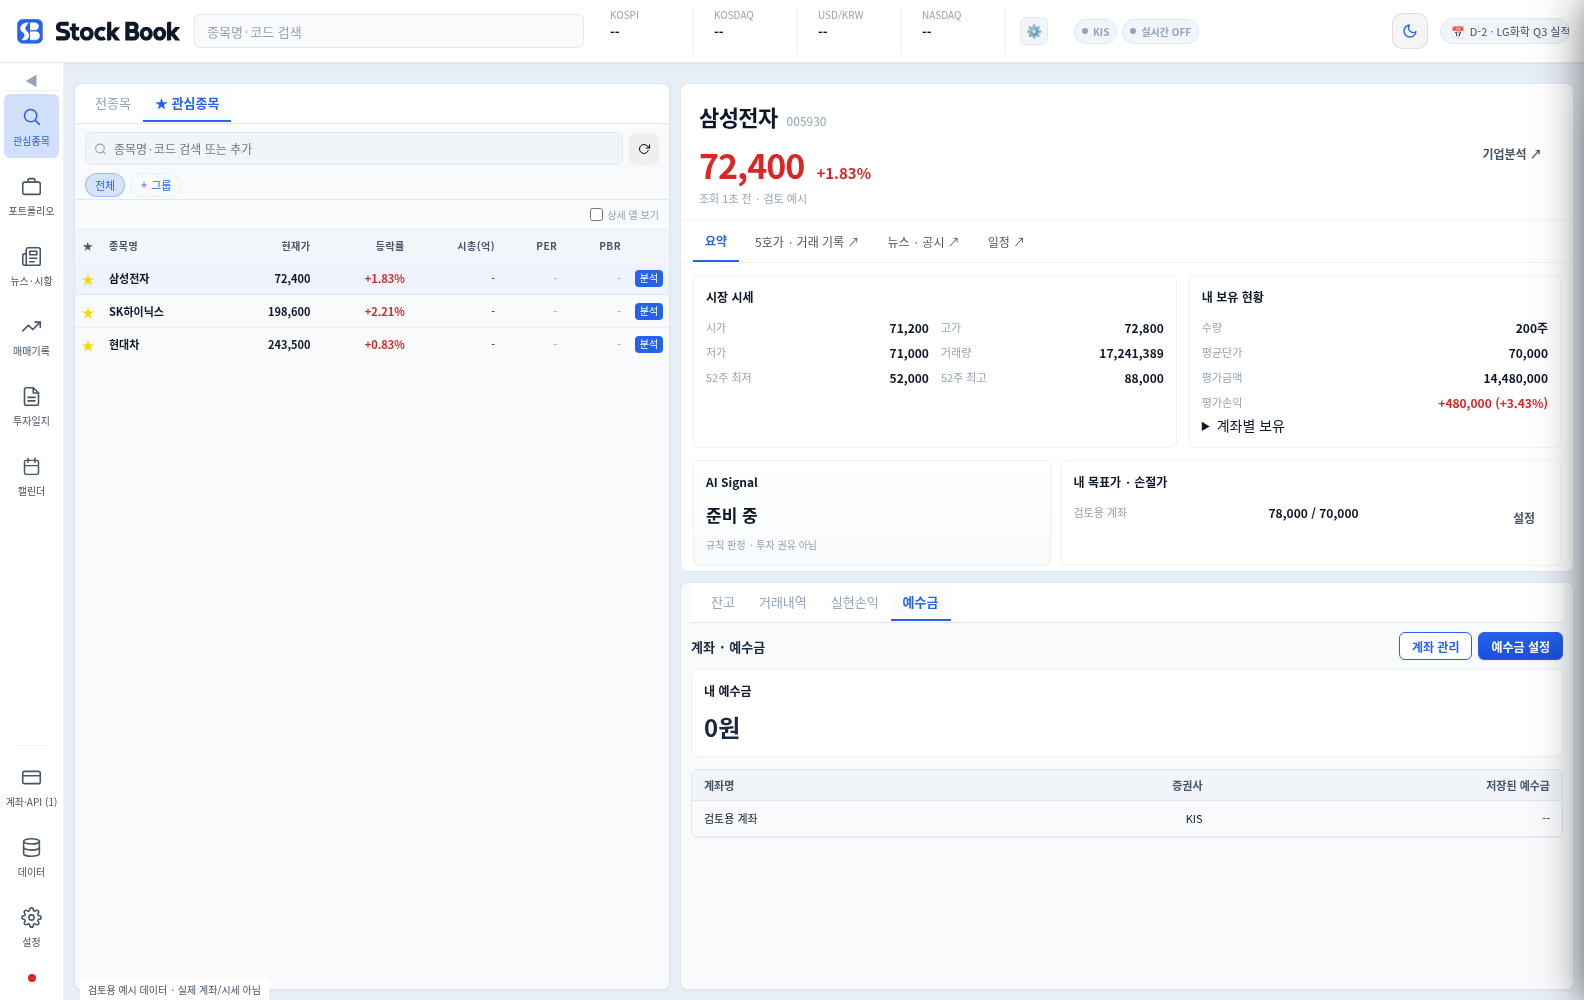
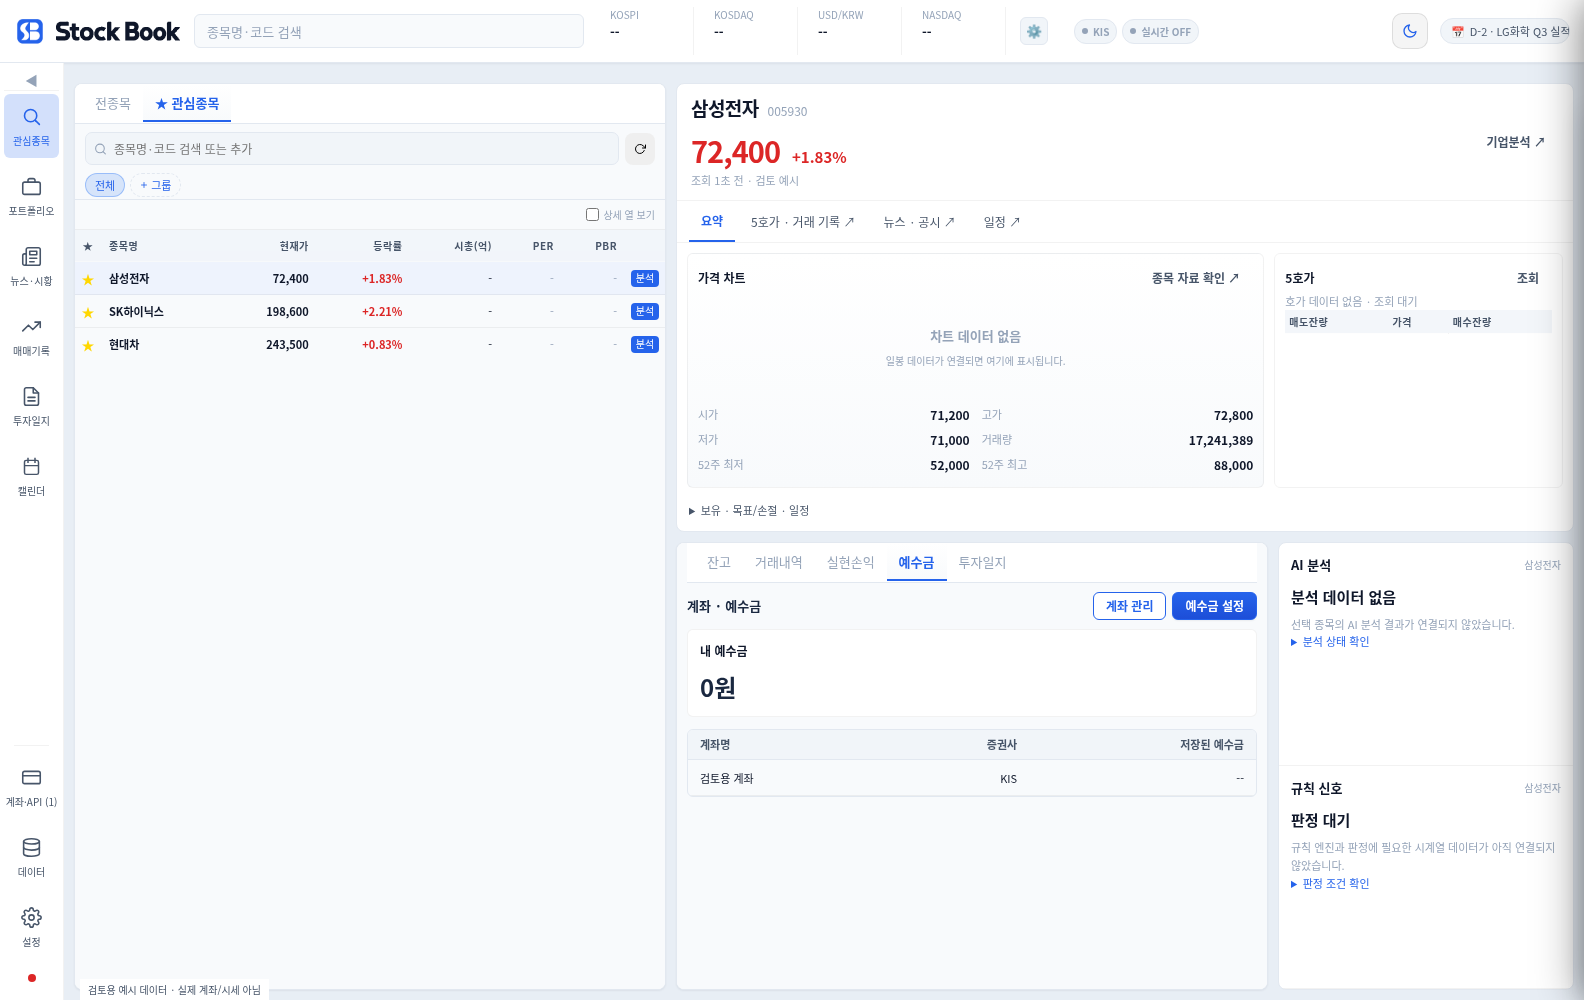
fix(ui): 일지와 AI 분석 및 규칙 신호 동시 표시

diff --git a/index.html b/index.html
@@ -3334,6 +3334,41 @@
   .sb-journal-section > summary { padding: 10px; color: var(--sb-accent); font-weight: 700; font-size: 12px; cursor: pointer; border-bottom: 1px solid var(--sb-border-weak); }
   .sb-journal-section-body { padding: 10px; }
   .sb-journal-section-body > .form-group { margin-bottom: 8px; }
+
+  .mdi-dock.sb-desktop-home { grid-template-columns: minmax(0,2fr) minmax(0,2fr) minmax(160px,1fr); grid-template-rows: 0 minmax(250px,1fr) minmax(260px,1fr); }
+  .mdi-dock.sb-desktop-home > .dock-ctx { grid-column: 2 / 4; }
+  .mdi-dock.sb-desktop-home > :is(#mdi-panel-portfolio,#mdi-panel-journal) { grid-column: 2; }
+  .sb-analysis { display: none; }
+  .mdi-dock.sb-desktop-home > .sb-analysis { display: grid; grid-template-rows: repeat(2,minmax(0,1fr)); grid-column: 3; grid-row: 3; min-width: 0; min-height: 0; overflow: auto; border: 1px solid var(--sb-border); border-radius: var(--sb-radius-3); background: var(--sb-panel); }
+  .sb-analysis-section { padding: 12px; min-height: 0; overflow: auto; border-bottom: 1px solid var(--sb-border-weak); }
+  .sb-analysis-section h3 { font-size: 13px; margin: 0; }
+  .sb-analysis-section > strong { display: block; font-size: 15px; margin: 12px 0 8px; }
+  .sb-analysis-section p { font-size: 11px; color: var(--sb-text-3); line-height: 1.7; }
+  .sb-analysis-section summary { font-size: 11px; color: var(--sb-accent); cursor: pointer; }
+  .sb-analysis-section small { font-size: 10px; color: var(--sb-text-3); }
+  .sb-analysis-stock { font-size: 10px; color: var(--sb-text-3); overflow-wrap: anywhere; }
+  .sb-region-title { display: flex; flex-wrap: wrap; align-items: center; justify-content: space-between; gap: 6px; font-size: 12px; }
+  .sb-market-stage { display: grid; grid-template-columns: minmax(0,2fr) minmax(160px,1fr); gap: 10px; padding: 10px; }
+  .sb-chart-region,.sb-order-region { border: 1px solid var(--sb-border-weak); border-radius: var(--sb-radius-2); padding: 10px; min-width: 0; }
+  .sb-chart-region { background: linear-gradient(var(--sb-panel),var(--sb-bg)); }
+  .sb-data-empty { min-height: 110px; display: flex; flex-direction: column; align-items: center; justify-content: center; gap: 8px; color: var(--sb-text-3); }
+  .sb-data-empty strong { font-size: 13px; }.sb-data-empty span { font-size: 10px; text-align: center; }
+  .sb-hoga-table { width: 100%; font-variant-numeric: tabular-nums; white-space: nowrap; }
+  .sb-hoga-table th,.sb-hoga-table td { padding: 4px; font-size: 10px; }
+  .sb-hoga-table .ask { color: var(--sb-down); background: var(--sb-down-bg); }
+  .sb-hoga-table .bid { color: var(--sb-up); background: var(--sb-up-bg); }
+  .sb-context-details { padding: 4px 12px 10px; font-size: 11px; color: var(--sb-text-2); }
+  .sb-context-details > summary { cursor: pointer; }
+  .sb-detail-head { padding: 10px 14px; }.dock-ctx__price { font-size: 29px; }.dock-ctx__name { font-size: 19px; }
+  .mdi-dock.sb-desktop-home .pf-stats { grid-template-columns: repeat(2,minmax(0,1fr)); }
+  .mdi-dock.sb-desktop-home #mdi-panel-journal .form-grid { grid-template-columns: repeat(2,minmax(0,1fr)) !important; }
+  @media(max-width:760px) {
+    .mdi-dock.sb-desktop-home { grid-template-columns: minmax(0,1fr); grid-template-rows: 0 280px 360px 400px 350px; }
+    .mdi-dock.sb-desktop-home > .dock-ctx { grid-column: 1; grid-row: 3; }
+    .mdi-dock.sb-desktop-home > :is(#mdi-panel-portfolio,#mdi-panel-journal) { grid-column: 1; grid-row: 4; }
+    .mdi-dock.sb-desktop-home > .sb-analysis { grid-column: 1; grid-row: 5; }
+  }
+
 </style>
 </head>
 <body>
@@ -4317,16 +4352,16 @@
         <div class="sb-detail-tabs" aria-label="선택 종목 메뉴">
           <button type="button" class="active">요약</button><button type="button" onclick="dockCtxAction('hoga')">5호가 · 거래 기록 ↗</button><button type="button" onclick="dockCtxAction('news')">뉴스 · 공시 ↗</button><button type="button" onclick="dockCtxAction('cal')">일정 ↗</button>
         </div>
-        <div class="sb-detail-content">
-          <section class="sb-detail-card"><h3>시장 시세</h3><div class="dock-ctx__rows dock-ctx__quote-grid" id="dockCtxQuote"></div></section>
-          <section class="sb-detail-card"><h3>내 보유 현황</h3><div class="dock-ctx__rows" id="dockCtxHold"></div></section>
+        <div class="sb-market-stage">
+          <section class="sb-chart-region" aria-label="선택 종목 차트"><div class="sb-region-title"><strong>가격 차트</strong><button type="button" class="sb-btn sb-btn--ghost sb-btn--sm" onclick="dockCtxAction('chart')">종목 자료 확인 ↗</button></div><div class="sb-data-empty"><strong>차트 데이터 없음</strong><span>일봉 데이터가 연결되면 여기에 표시됩니다.</span></div><div class="dock-ctx__rows dock-ctx__quote-grid" id="dockCtxQuote"></div></section>
+          <section class="sb-order-region" aria-label="선택 종목 5호가"><div class="sb-region-title"><strong>5호가</strong><button type="button" class="sb-btn sb-btn--ghost sb-btn--sm" id="sbHogaRefresh" onclick="sbDesktopHoga()">조회</button></div><div id="sbHogaStatus" class="dock-ctx__none" role="status">호가 데이터 없음 · 조회 대기</div><table class="sb-hoga-table"><thead><tr><th>매도잔량</th><th>가격</th><th>매수잔량</th></tr></thead><tbody id="sbHogaRows"></tbody></table></section>
         </div>
-        <div class="sb-detail-bottom">
-          <section class="sb-detail-card sb-signal"><h3>AI Signal</h3><strong>준비 중</strong><small>규칙 판정 · 투자 권유 아님</small></section>
-          <section class="sb-detail-card"><h3>내 목표가 · 손절가</h3><div class="dock-ctx__rows" id="sbDesktopTargets"></div></section>
-        </div>
-        <section class="sb-detail-card" style="margin:0 12px 12px"><h3>다가오는 종목 일정</h3><div class="dock-ctx__rows" id="dockCtxEvents"></div></section>
+        <details class="sb-context-details"><summary>보유 · 목표/손절 · 일정</summary><div class="sb-detail-content"><div class="dock-ctx__rows" id="dockCtxHold"></div><div class="dock-ctx__rows" id="sbDesktopTargets"></div><div class="dock-ctx__rows" id="dockCtxEvents"></div></div></details>
       </div>
+    </aside>
+    <aside id="sbAnalysis" class="sb-analysis" aria-label="AI 분석과 규칙 신호">
+      <section class="sb-analysis-section"><div class="sb-region-title"><h3>AI 분석</h3><span class="sb-analysis-stock">종목 선택</span></div><strong>분석 데이터 없음</strong><p>선택 종목의 AI 분석 결과가 연결되지 않았습니다.</p><details id="sbAiCheck"><summary>분석 상태 확인</summary><p>분석 결과: 없음<br>생성 시각: --<br>출처: 연결되지 않음</p><button type="button" class="sb-btn sb-btn--sm" onclick="dockCtxAction('chart')">참고 기업자료 확인 ↗</button></details></section>
+      <section class="sb-analysis-section"><div class="sb-region-title"><h3>규칙 신호</h3><span class="sb-analysis-stock">종목 선택</span></div><strong>판정 대기</strong><p>규칙 엔진과 판정에 필요한 시계열 데이터가 아직 연결되지 않았습니다.</p><details id="sbSignalCheck"><summary>판정 조건 확인</summary><p>시계열 데이터: 없음<br>규칙 엔진: 연결 대기<br>마지막 판정: --</p><small>규칙 판정 · 투자 권유 아님</small></details></section>
     </aside>
 </div><!-- /mdi-workspace -->
 </div><!-- /mdi-content -->
@@ -12012,6 +12047,41 @@ function renderWatchlist() {
 }
 
 // ── 관심종목 종합: 선택 종목 문맥 패널 ──────────────────────────────────
+let sbHogaSelection = null;
+let sbHogaRequest = 0;
+function sbDesktopSelection(w) {
+  document.querySelectorAll('.sb-analysis-stock').forEach(el => { el.textContent = w ? (w.name || w.ticker) : '종목 선택'; });
+  const ticker = w?.ticker || null;
+  if (ticker !== sbHogaSelection) {
+    sbHogaSelection = ticker; sbHogaRequest++;
+    document.getElementById('sbHogaRows').replaceChildren();
+    document.getElementById('sbHogaStatus').textContent = ticker ? '호가 데이터 없음 · 조회 대기' : '종목 선택 후 조회하세요.';
+    document.getElementById('sbHogaRefresh').disabled = false;
+  }
+}
+async function sbDesktopHoga() {
+  const ticker = sbHogaSelection;
+  const status = document.getElementById('sbHogaStatus');
+  if (!ticker) { status.textContent = '종목 선택 후 조회하세요.'; return; }
+  if (!window.electronAPI?.fetchHoga) { status.textContent = '연결 필요 · 호가 데이터 없음'; return; }
+  const request = ++sbHogaRequest;
+  const button = document.getElementById('sbHogaRefresh'); button.disabled = true;
+  status.textContent = '호가 조회 중…';
+  try {
+    const data = await window.electronAPI.fetchHoga(ticker);
+    if (request !== sbHogaRequest || ticker !== sbHogaSelection) return;
+    const valid = level => Number.isFinite(level?.price) && level.price > 0 && Number.isFinite(level?.qty) && level.qty >= 0;
+    if (!data?.asks?.length || !data?.bids?.length || !data.asks.every(valid) || !data.bids.every(valid)) throw new Error('missing');
+    const rows = document.getElementById('sbHogaRows'); rows.replaceChildren();
+    for (const [side,levels] of [['ask',data.asks],['bid',data.bids]]) for (const level of levels.slice(0,5)) {
+      const tr = document.createElement('tr'); tr.className=side;
+      for (const value of [side==='ask'?fmt(level.qty):'',fmt(level.price),side==='bid'?fmt(level.qty):'']) { const td=document.createElement('td');td.textContent=value;tr.appendChild(td); }
+      rows.appendChild(tr);
+    }
+    status.textContent = '조회 시각 ' + new Date().toLocaleTimeString('ko-KR') + ' · 수동 조회';
+  } catch (_) { if (request===sbHogaRequest) { document.getElementById('sbHogaRows').replaceChildren(); status.textContent='조회 실패 · 호가 데이터 없음 · 다시 조회하세요.'; } }
+  finally { if (request===sbHogaRequest) button.disabled=false; }
+}
 function sbDesktopCash() {
   const balance = document.getElementById('sbDesktopCashBalance');
   if (balance) balance.textContent = fmt(getCashBalance()) + '원';
@@ -12075,6 +12145,10 @@ function sbDesktopMount() {
   const cashPane = document.createElement('div'); cashPane.className='mdi-ptab-pane'; cashPane.id='mdi-ptc-portfolio-cash'; cashPane.style.display='none';
   cashPane.innerHTML='<div class="sb-work-toolbar"><strong>계좌 · 예수금</strong><button type="button" class="sb-btn sb-btn--secondary sb-btn--sm" onclick="openAccountPanel()">계좌 관리</button><button type="button" class="sb-btn sb-btn--primary sb-btn--sm" onclick="openCashManualModal()">예수금 설정</button></div><section class="sb-detail-card"><h3>내 예수금</h3><strong id="sbDesktopCashBalance" style="font-size:24px"></strong></section><div class="table-wrap" style="margin-top:12px"><table><thead><tr><th>계좌명</th><th>증권사</th><th>저장된 예수금</th></tr></thead><tbody id="sbDesktopAccountRows"></tbody></table></div><div id="sbDesktopAccountEmpty" class="empty-state">등록된 계좌가 없습니다. 계좌 관리에서 추가하세요.</div>';
   pfBody?.appendChild(cashPane);
+  const journalTab=document.createElement('button');journalTab.type='button';journalTab.className='mdi-ptab';journalTab.textContent='투자일지';journalTab.onclick=()=>window._MDI.show('journal');tabBar?.appendChild(journalTab);
+  const journalTabs=document.createElement('div');journalTabs.className='mdi-ptab-bar';
+  journalTabs.innerHTML='<button type="button" class="mdi-ptab" onclick="window._MDI.show(\'portfolio\');window._MDIPanelTab(\'portfolio\',\'pf\')">잔고</button><button type="button" class="mdi-ptab" onclick="window._MDI.show(\'portfolio\');window._MDIPanelTab(\'portfolio\',\'trd\');renderTrades()">거래내역</button><button type="button" class="mdi-ptab active">투자일지</button>';
+  document.getElementById('mdi-body-journal')?.prepend(journalTabs);
   const pfTab = document.querySelector('#mdi-body-portfolio .mdi-ptab');
   if (pfTab) pfTab.textContent = '잔고';
   // Existing navigation ids remain intact. Add shortcuts rather than rename data-pid.
@@ -12163,8 +12237,14 @@ function dockCtxRender() {
   if (!list.some(w => w.ticker === window._dockSel)) window._dockSel = list[0]?.ticker || null;
   const w = list.find(x => x.ticker === window._dockSel) || null;
   empty.style.display = w ? 'none' : '';
-  box.style.display   = w ? '' : 'none';
-  if (!w) return;
+  box.style.display = '';
+  sbDesktopSelection(w);
+  if (!w) {
+    for (const id of ['dockCtxName','dockCtxCode','dockCtxPrice','dockCtxChg']) { const el=document.getElementById(id); if(el) el.textContent='--'; }
+    for (const id of ['dockCtxQuote','dockCtxHold','dockCtxEvents','sbDesktopTargets']) document.getElementById(id)?.replaceChildren();
+    document.getElementById('dockCtxStatus').textContent='종목 선택 대기';
+    return;
+  }
   document.getElementById('wl-row-' + w.ticker)?.classList.add('dock-sel');
   document.querySelectorAll('#watchlistBody [data-watch-ticker]').forEach(row => {
     const selected = row.dataset.watchTicker === w.ticker;

diff --git a/docs/DESKTOP-MAIN-V2-IMPLEMENTATION-WAIT.md b/docs/DESKTOP-MAIN-V2-IMPLEMENTATION-WAIT.md
@@ -2,6 +2,16 @@
 
 기준: 데스크톱 미팅룸에서 승인한 Desktop Main v2 목업과 구현 지시서. 최초 비교 대상은 `0180097e` 시점이며, 아래 2026-10-20 재검증 기록이 과거 조사보다 우선한다. 이슈·DOM·코드 기준점은 아래 최신 확인 기록에 따르며, 완료 전 코드의 동작이나 후속 구현 결과를 확정한 것은 아니다. 목업의 모든 숫자는 샘플이며, 실제 데이터 연결 여부는 후속 구현 시 다시 확인한다. 이 문서는 디자인 승인이나 작업 큐를 변경하지 않는다.
 
+## 동시 표시 기준 보완 (2026-10-20)
+
+사용자 지시에 따라 다음 구성이 앞선 AI Signal 카드/독립 일지 전환 설명보다 우선한다.
+
+- 상단은 선택 종목 가격·차트 영역·5호가 영역이다. 차트 데이터가 없어도 영역과 자료 확인 경로를 제공한다. 실제 차트/규칙 엔진을 새로 만들지 않는다.
+- 우측 하단을 작업 영역과 분석 영역으로 나눈다. 잔고·거래내역·투자일지 전환 중에도 분석 영역은 그대로 유지한다.
+- 분석 영역의 AI 분석과 규칙 신호는 서로 다른 구역이다. AI는 `분석 데이터 없음`, 규칙은 `판정 대기`로 표시하고 각각 분석 상태/판정 조건을 펼쳐 확인할 수 있다. 임의 결과·점수·추천을 생성하지 않는다.
+- 5호가는 기존 `fetchHoga` IPC를 사용해 수동 조회한다. 실패/미연결/종목 미선택 상태를 표시하고 가상 호가를 만들지 않는다. 종목 변경 전에 시작한 응답이 뒤늦게 오면 무시한다. 기존 독립 거래 화면의 로직은 변경하지 않는다.
+- 전체 `npm test` 통과. 작업 화면 전환 중 분석 영역 표시, 실제 호가/조회 실패/미연결/오래된 응답, 상태 확인 흐름을 추가 검증했다. 최신 캡처는 아래 같은 파일 경로로 갱신했다.
+
 ## 전면 UI 재구성 (2026-10-20)
 
 사용자 피드백에 따라 배치만 바꾼 PR #82와 로고 PR #80을 하나의 새 PR로 대체한다. 해당 PR들의 기존 화면을 승인 목업 적용 완료로 보지 않는다.
